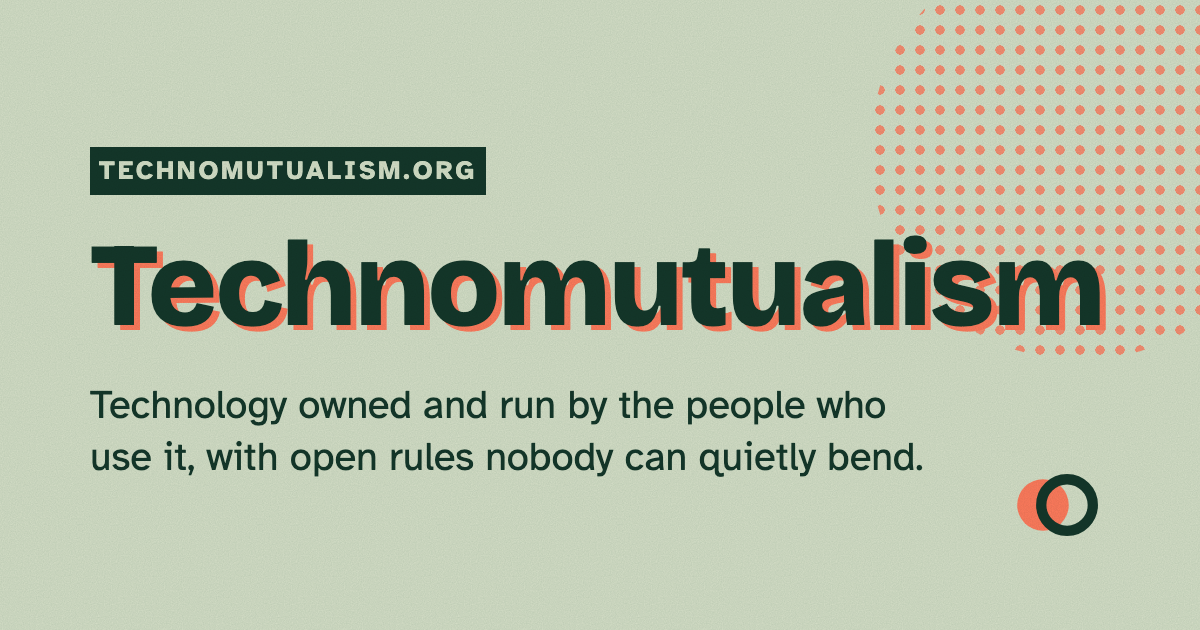
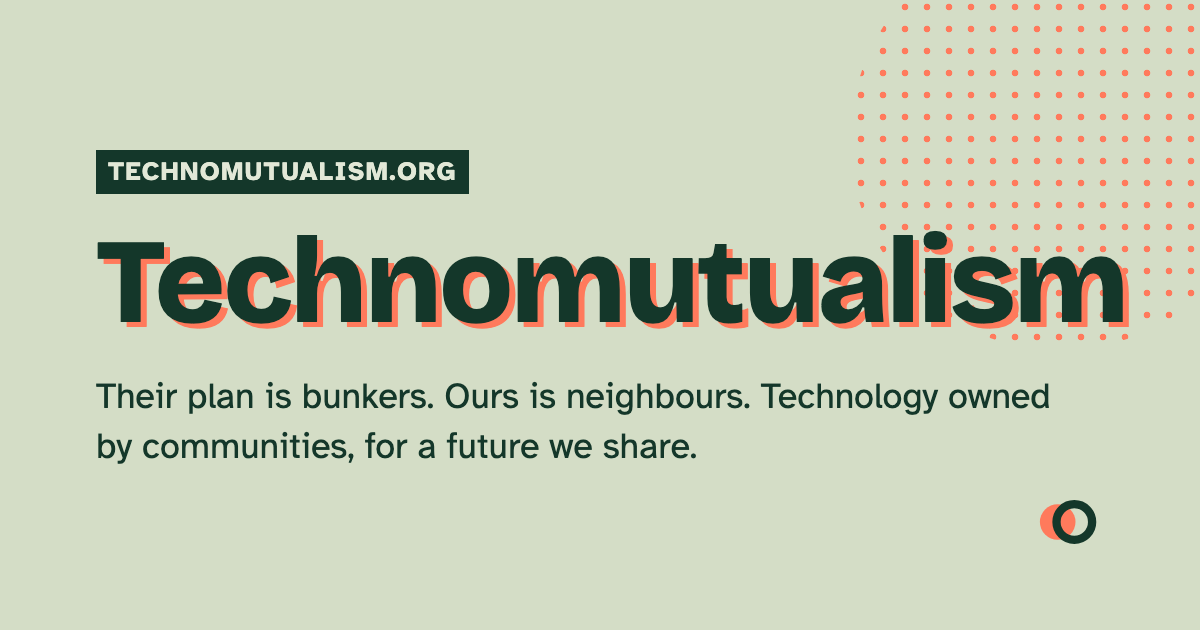
Overhaul: lead with the fortress future (surveillance, AI targeting, exits for the few) and the shared future; End Times Fascism; Power in the open; new questions; new share image (#3)

diff --git a/site/index.html b/site/index.html
@@ -3,11 +3,11 @@
 <head>
 <meta charset="utf-8">
 <meta name="viewport" content="width=device-width, initial-scale=1">
-<title>Technomutualism — technology owned by the people who use it</title>
-<meta name="description" content="Technomutualism is the answer to technofeudalism: technology owned and run by the people who use it, with open rules nobody can quietly bend.">
+<title>Technomutualism — technology for a shared future</title>
+<meta name="description" content="Surveillance, AI and autonomous weapons are being built by a few, for a future with room for only a few. Technomutualism puts technology in the hands of communities, for a future we share.">
 <link rel="canonical" href="https://technomutualism.org/">
 <meta property="og:title" content="Technomutualism">
-<meta property="og:description" content="Technology owned and run by the people who use it, with open rules nobody can quietly bend.">
+<meta property="og:description" content="Their plan is bunkers. Ours is neighbours. Technology owned by communities, for a future we share.">
 <meta property="og:url" content="https://technomutualism.org/">
 <meta property="og:type" content="website">
 <meta property="og:image" content="https://technomutualism.org/og.png">
@@ -32,7 +32,7 @@
       <ul>
         <li><a href="./" aria-current="page">The idea</a></li>
         <li><a href="history">History</a></li>
-        <li><a href="corruption">Ending corruption</a></li>
+        <li><a href="corruption">Power in the open</a></li>
         <li><a href="in-practice">In practice</a></li>
         <li><a href="questions">Questions</a></li>
       </ul>
@@ -47,13 +47,38 @@
   <div class="wrap-wide">
     <p class="kicker">A movement for the digital age</p>
     <h1 class="riso">Techno&shy;mutualism</h1>
-    <p class="lede">The tools that run our lives are owned by a handful of companies, and the rest of us pay rent to use them.
-      There is another way: <strong>technology owned and run by the people who use it</strong>, with open rules that nobody can quietly bend.</p>
-    <p><a class="button" href="#what">What it means</a><a class="button secondary" href="in-practice">See it working</a></p>
+    <p class="lede">The most powerful technology on Earth is being built by a few billionaires and the governments that buy from
+      them: surveillance that never sleeps, artificial intelligence, weapons that pick their own targets. It's being built for a
+      future with room for only a few. There is another way: <strong>technology owned and run by communities, for a future we share</strong>.</p>
+    <p><a class="button" href="#against">What we're up against</a><a class="button secondary" href="in-practice">See it working</a></p>
   </div>
 </section>
 
 <div class="wrap">
+
+<section id="against" class="section">
+  <h2 class="riso">What we're up against</h2>
+  <p>In their book <a href="https://naomiklein.org/end-times-fascism/"><strong>End Times Fascism</strong></a> (2026), Naomi Klein
+    and Astra Taylor describe a new alliance of tech billionaires, religious fundamentalists and ethno-nationalists. Unlike the
+    fascism of the last century, it has given up on a shared future. Its leaders expect collapse, help bring it on, and plan
+    who gets to survive it.</p>
+  <ul class="cards">
+    <li class="card"><h3>Watching everyone</h3><p>Data about where we go, who we know and what we say is gathered by private companies
+      and fused with state power. The ACLU warns that a few firms want to become the
+      <a href="https://www.aclu.org/press-releases/in-new-report-aclu-warns-against-giving-private-companies-centralized-access-to-police-data">"operating system" for police data</a>
+      from thousands of departments.</p></li>
+    <li class="card"><h3>Machines that choose targets</h3><p>Autonomous drones are moving
+      <a href="https://oecd.ai/en/incidents/2026-06-23-4409">from testing into combat</a>, and militaries are rehearsing
+      <a href="https://www.defence.gov.au/news-events/news/2026-06-22/aukus-partners-test-drone-swarming-tactics">swarms that coordinate themselves</a>.
+      Some of the companies that sort our feeds now build the software that sorts targets.</p></li>
+    <li class="card"><h3>Rent on everything</h3><p>A few platforms own the markets, the clouds and the app stores, and everyone else
+      pays to use them. The economist Yanis Varoufakis calls this <a href="history#technofeudalism"><strong>technofeudalism</strong></a>.</p></li>
+    <li class="card"><h3>Exits for the few</h3><p>Bunkers, private islands, fortified borders, even Mars: the people building this
+      technology are planning their way out of the crises it deepens, not a way through them for everyone.</p></li>
+  </ul>
+  <p>They are betting against the future. <strong>Technomutualism bets on it</strong>: the same technology, owned by the
+    communities it serves, used to feed, organise and look after each other, with no single switch at the top.</p>
+</section>
 
 <section id="what" class="section">
   <div class="definition">
@@ -72,47 +97,47 @@
     tired volunteers, and too many of them collapsed under bookkeeping, fraud or burnout. Today a phone in every pocket,
     open-source software and cryptography can do the bookkeeping, keep the records honest and connect communities
     across the world. The things that used to break mutualism can now be handled by tools that its own members own.</p>
-  <p>Technology isn't the enemy here. The same networks now used to extract rent and watch people can carry
-    voluntary co-operation, mutual aid and shared work instead. It depends on who owns them.</p>
+  <p>Technology isn't the enemy here. The same networks now used to watch, sort and target people can carry
+    mutual aid, shared work and self-government instead. It depends on who owns them.</p>
 </section>
 
 <section class="section">
   <h2 class="riso">Two futures for the same technology</h2>
-  <p>The economist Yanis Varoufakis argues that we no longer live under capitalism as we knew it but under
-    <a href="history#technofeudalism"><strong>technofeudalism</strong></a>: a few platform owners act like lords,
-    collecting "cloud rent" from everyone who has to use their land. The same technology can be built the other way round.</p>
+  <p>One future is a fortress: a few people behind walls, everyone else watched, scored and kept in line. The other is a
+    commons: communities that own their tools and look after each other. Both can be built from the same phones, servers and code.</p>
 
   <div class="contrast">
     <div class="feudal">
-      <h3>Technofeudalism</h3>
+      <h3>The fortress future</h3>
       <ul>
-        <li>The platform owns the market; sellers and buyers rent a place in it.</li>
-        <li>Rules are secret and change overnight.</li>
-        <li>Hidden algorithms decide what you see, who sees you and whether you can keep earning.</li>
-        <li>Your data and reputation belong to the platform.</li>
         <li>Every click, place and contact is tracked, profiled and sold, or handed over.</li>
+        <li>Hidden algorithms decide what you see, who sees you and whether you can keep earning.</li>
+        <li>Machines are taught to pick targets, and the people they watch have no say.</li>
+        <li>Dissent can be switched off: accounts closed, money frozen, voices buried.</li>
+        <li>A few platforms own the markets; everyone else rents a place in them.</li>
         <li>Value flows up and out of the community.</li>
-        <li>If you leave, you start again from nothing.</li>
-        <li>Power answers to shareholders, or to the state.</li>
+        <li>The few prepare their exits: bunkers, islands, walls.</li>
+        <li>Power answers to billionaires, and to the governments that buy from them.</li>
       </ul>
     </div>
     <div class="mutual">
-      <h3>Technomutualism</h3>
+      <h3>The shared future</h3>
       <ul>
-        <li>Members own the market and keep what they earn in it.</li>
-        <li>Rules are open code that anyone can read and check.</li>
-        <li>Removing someone follows published rules, not a hidden algorithm.</li>
-        <li>Your keys, your account, your history.</li>
         <li>Private chats are end-to-end encrypted, and your community's server is run by people you can name.</li>
+        <li>Rules are open code that anyone can read and check.</li>
+        <li>People make the decisions about people, in the open.</li>
+        <li>Removing someone follows published rules, not a hidden algorithm.</li>
+        <li>Members own the market and keep what they earn in it.</li>
         <li>Value circulates and stays where it's made.</li>
-        <li>Communities can copy the software and leave together.</li>
-        <li>Power answers to the members.</li>
+        <li>The plan is neighbours, not bunkers: food, energy and mutual aid close to home, for everyone.</li>
+        <li>Power answers to the members, and communities can copy the software and carry on.</li>
       </ul>
     </div>
   </div>
-  <p>When platform power fuses with state power, the harm goes beyond rent. People can be profiled, silenced or cut off
-    from their money at the flip of a switch, and the decision never sees daylight. Some call that <strong>techno-fascism</strong>.
-    Technomutualism is the opposite pole: power spread out instead of stacked up, so there is no single switch to flip.</p>
+  <p>When platform power fuses with state power, people can be profiled, silenced or cut off from their money at the flip
+    of a switch, and the decision never sees daylight. Klein and Taylor answer the fortress with a politics rooted in life on
+    this planet, for everyone. Technomutualism is that answer built into tools: power spread out instead of stacked up, so
+    there is no single switch to flip.</p>
 </section>
 
 <section class="section">

diff --git a/site/history.html b/site/history.html
@@ -4,10 +4,10 @@
 <meta charset="utf-8">
 <meta name="viewport" content="width=device-width, initial-scale=1">
 <title>History — Technomutualism</title>
-<meta name="description" content="Two centuries of mutualism and market socialism, the rise of technofeudalism, and why technology finally fixes what kept mutual projects small.">
+<meta name="description" content="Two centuries of mutualism and market socialism, the slide from technofeudalism to end times fascism, and why technology finally fixes what kept mutual projects small.">
 <link rel="canonical" href="https://technomutualism.org/history">
 <meta property="og:title" content="Where Technomutualism comes from">
-<meta property="og:description" content="Mutualism, market socialism, technofeudalism, and what technology changes.">
+<meta property="og:description" content="Mutualism, market socialism, the slide from rent to control, and what technology changes.">
 <meta property="og:url" content="https://technomutualism.org/history">
 <meta property="og:image" content="https://technomutualism.org/og.png">
 <meta property="og:image:width" content="1200">
@@ -31,7 +31,7 @@
       <ul>
         <li><a href="./">The idea</a></li>
         <li><a href="history" aria-current="page">History</a></li>
-        <li><a href="corruption">Ending corruption</a></li>
+        <li><a href="corruption">Power in the open</a></li>
         <li><a href="in-practice">In practice</a></li>
         <li><a href="questions">Questions</a></li>
       </ul>
@@ -45,8 +45,9 @@
 <section class="hero hero-page">
   <p class="kicker">History</p>
   <h1 class="riso">Where this comes from</h1>
-  <p class="lede">Technomutualism joins two old ideas, mutualism and market socialism, to a new problem: technofeudalism.
-    Here is the short story of each, and why the tools of the 2020s change what's possible.</p>
+  <p class="lede">Technomutualism joins two old ideas, mutualism and market socialism, to the problem of our time: the most
+    powerful technology ever built, held by a few, used first to collect rent and now to watch and control. Here is the short
+    story of each, and why the tools of the 2020s change what's possible.</p>
 </section>
 
 <section id="mutualism" class="section">
@@ -108,7 +109,7 @@
 
 <section id="technofeudalism" class="band">
   <div class="wrap">
-    <h2>Technofeudalism: the problem we're answering</h2>
+    <h2>From rent to control: the problem we're answering</h2>
     <p>In 2020 the French economist <strong>Cédric Durand</strong> described the digital economy as <em>techno-feudal</em>.
       In 2023 <strong>Yanis Varoufakis</strong> went further in his book <em>Technofeudalism: What Killed Capitalism</em>.</p>
     <p>His argument in short: the big platforms, such as Amazon, Apple, Google and Meta, are no longer markets but estates.
@@ -117,8 +118,16 @@
       Varoufakis calls the owners' income <strong>cloud rent</strong>, and the rest of us <strong>cloud serfs</strong>.</p>
     <p>Feudal lords didn't need to make the best product. They owned the land everyone had to use. That's the danger:
       not that technology is bad, but that whoever owns the platform owns everyone on it.</p>
-    <p>There's a darker edge too. Critics warn that when platform owners and governments work hand in hand, the tools built
-      to sell us things can become tools to watch, sort and silence us. Technomutualism answers both by changing who owns the land.</p>
+    <p>Rent was only the first stage. In 2019 <strong>Shoshana Zuboff</strong>'s <em>The Age of Surveillance Capitalism</em>
+      showed how the same companies turn what we do into predictions about what we will do, and sell them. Data gathered to sell
+      us things is now fused with police and military systems, and some of the companies that sort our feeds now build software
+      that sorts targets, for drones that increasingly choose for themselves.</p>
+    <p>In 2026 <strong>Naomi Klein</strong> and <strong>Astra Taylor</strong> gave the next stage a name in
+      <a href="https://naomiklein.org/end-times-fascism/"><em>End Times Fascism</em></a>: an alliance of tech billionaires,
+      religious fundamentalists and ethno-nationalists that has given up on a shared future and plans who survives the collapse
+      it helps bring on. Bunkers for the few, walls for everyone else.</p>
+    <p>Technomutualism answers every stage the same way: change who owns the land. Tools owned by the communities that use
+      them can't be turned against those communities from the top, because there is no top to turn them.</p>
   </div>
 </section>
 
@@ -155,7 +164,7 @@
 </section>
 
 <nav class="next" aria-label="Keep reading">
-  <p>Next: <a href="corruption">How technology can design out corruption →</a></p>
+  <p>Next: <a href="corruption">How to keep power in the open →</a></p>
 </nav>
 
 </div>

diff --git a/site/questions.html b/site/questions.html
@@ -4,10 +4,10 @@
 <meta charset="utf-8">
 <meta name="viewport" content="width=device-width, initial-scale=1">
 <title>Questions — Technomutualism</title>
-<meta name="description" content="Is technomutualism crypto? Is it communism? Is it naive? Straight answers to common questions.">
+<meta name="description" content="What is end times fascism? Can a community app stop it? Is technomutualism crypto, communism or naive? Straight answers.">
 <link rel="canonical" href="https://technomutualism.org/questions">
 <meta property="og:title" content="Technomutualism: common questions">
-<meta property="og:description" content="Is it crypto? Is it communism? Is it naive? Straight answers.">
+<meta property="og:description" content="End times fascism, drones and surveillance, crypto, communism: straight answers.">
 <meta property="og:url" content="https://technomutualism.org/questions">
 <meta property="og:image" content="https://technomutualism.org/og.png">
 <meta property="og:image:width" content="1200">
@@ -31,7 +31,7 @@
       <ul>
         <li><a href="./">The idea</a></li>
         <li><a href="history">History</a></li>
-        <li><a href="corruption">Ending corruption</a></li>
+        <li><a href="corruption">Power in the open</a></li>
         <li><a href="in-practice">In practice</a></li>
         <li><a href="questions" aria-current="page">Questions</a></li>
       </ul>
@@ -50,6 +50,30 @@
 
 <section class="section">
   <details open>
+    <summary>What is end times fascism?</summary>
+    <p>It's the name Naomi Klein and Astra Taylor give, in their 2026 book
+      <a href="https://naomiklein.org/end-times-fascism/"><em>End Times Fascism</em></a>, to a new alliance of tech
+      billionaires, religious fundamentalists and ethno-nationalists. Unlike older fascism, it has no shared future to offer.
+      It expects collapse, helps bring it on, and plans who gets to survive it: bunkers and exits for the few, surveillance
+      and walls for everyone else. Read the book for their full argument; this site takes their warning as its starting point.</p>
+  </details>
+
+  <details>
+    <summary>Can a community app stop drones and surveillance?</summary>
+    <p>No, and we won't pretend it can. What it can do is make communities less dependent on the systems that watch and
+      control them. When a community's money, market, messages and decisions run on tools it owns, there is less to switch off
+      from above, less data to harvest, and more people who already know how to organise together. Fortress politics feeds on
+      isolation and fear. Mutual aid is its opposite, and it works better with good tools.</p>
+  </details>
+
+  <details>
+    <summary>Isn't this political?</summary>
+    <p>Yes. It takes a side: with communities, against power that is concentrated and hidden, whoever holds it. It isn't a
+      party, and it doesn't ask you to join one. People of many views can agree that the tools we all depend on shouldn't be
+      in the hands of a few.</p>
+  </details>
+
+  <details>
     <summary>Is this crypto?</summary>
     <p>No. There is no coin, no token, no mining and nothing to invest in or speculate on. Mutual credit is closer to a
       shared tab between neighbours than to Bitcoin: credits are created when members trade with each other, and all
@@ -66,9 +90,9 @@
 
   <details>
     <summary>Is it against big tech, or against technology?</summary>
-    <p>Neither. Technomutualism loves technology; the "techno" is in the name. It's against one thing: a few owners
-      collecting rent from everyone who has to use their platforms. The same phones, apps and networks can be owned by the
-      people who use them instead.</p>
+    <p>Neither. Technomutualism loves technology; the "techno" is in the name. It's against one thing: the most powerful
+      tools ever built held by a few, and used to collect rent, to watch people and to control them. The same phones, apps
+      and networks can be owned by the communities that use them instead.</p>
   </details>
 
   <details>

diff --git a/site/corruption.html b/site/corruption.html
@@ -3,11 +3,11 @@
 <head>
 <meta charset="utf-8">
 <meta name="viewport" content="width=device-width, initial-scale=1">
-<title>Ending corruption — Technomutualism</title>
+<title>Power in the open — Technomutualism</title>
 <meta name="description" content="Corruption needs hidden power over shared things. Signed records, open rules, shared keys and the freedom to leave take the hiding places away. What each one needs, and where blockchain fits.">
 <link rel="canonical" href="https://technomutualism.org/corruption">
 <meta property="og:title" content="Designing out corruption">
-<meta property="og:description" content="Twelve ways technology can take away corruption's hiding places, and what each one needs.">
+<meta property="og:description" content="Twelve ways technology can take away the hiding places of corruption and control, and what each one needs.">
 <meta property="og:url" content="https://technomutualism.org/corruption">
 <meta property="og:image" content="https://technomutualism.org/og.png">
 <meta property="og:image:width" content="1200">
@@ -31,7 +31,7 @@
       <ul>
         <li><a href="./">The idea</a></li>
         <li><a href="history">History</a></li>
-        <li><a href="corruption" aria-current="page">Ending corruption</a></li>
+        <li><a href="corruption" aria-current="page">Power in the open</a></li>
         <li><a href="in-practice">In practice</a></li>
         <li><a href="questions">Questions</a></li>
       </ul>
@@ -43,10 +43,11 @@
 <div class="wrap">
 
 <section class="hero hero-page">
-  <p class="kicker">Ending corruption</p>
+  <p class="kicker">Power in the open</p>
   <h1 class="riso">Take away the hiding places</h1>
-  <p class="lede">Corruption needs three things: power over something shared, a way to use it secretly, and nobody able to
-    stop you. Technology can't make people good. It can make secret abuse of shared things very hard to get away with.</p>
+  <p class="lede">Corruption, surveillance and control all need the same thing: power over something shared that nobody else
+    can see or stop. The fortress future is built on that kind of power. Technology can't make people good, but it can make
+    secret power over shared things very hard to get away with.</p>
 </section>
 
 <section class="section">

diff --git a/site/in-practice.html b/site/in-practice.html
@@ -31,7 +31,7 @@
       <ul>
         <li><a href="./">The idea</a></li>
         <li><a href="history">History</a></li>
-        <li><a href="corruption">Ending corruption</a></li>
+        <li><a href="corruption">Power in the open</a></li>
         <li><a href="in-practice" aria-current="page">In practice</a></li>
         <li><a href="questions">Questions</a></li>
       </ul>
@@ -45,8 +45,9 @@
 <section class="hero hero-page">
   <p class="kicker">In practice</p>
   <h1 class="riso">It's already happening</h1>
-  <p class="lede">Technomutualism isn't a dream waiting for permission. Pieces of it are running today, from Swiss
-    businesses to Kenyan villages to a pair of Australian towns. Here's where, and what it could grow into.</p>
+  <p class="lede">While a few build fortresses, communities are already building the alternative, without waiting for
+    permission. Pieces of it run today, from Swiss businesses to Kenyan villages to a pair of Australian towns. Here's where,
+    and what it could grow into.</p>
 </section>
 
 <section id="beanpool" class="section">
@@ -116,6 +117,9 @@
     <p>Care for children, the sick and the elderly makes up most of the world's unpaid work. Recording it as real
       contribution, the way time banks do, makes it count.</p>
 
+    <h3>Organising without being watched</h3>
+    <p>Group chats that are end-to-end encrypted, on a server the community runs, so organising a food co-op, a union or a
+      protest doesn't depend on a platform that can switch you off or be made to hand your messages over.</p>
     <h3>Honest institutions</h3>
     <p>Clubs, co-ops, unions and town councils could run their money and votes on open, signed records. Not because people
       are bad, but because nobody should have to just take someone's word for it.</p>

diff --git a/site/404.html b/site/404.html
@@ -23,7 +23,7 @@
       <ul>
         <li><a href="/">The idea</a></li>
         <li><a href="/history">History</a></li>
-        <li><a href="/corruption">Ending corruption</a></li>
+        <li><a href="/corruption">Power in the open</a></li>
         <li><a href="/in-practice">In practice</a></li>
         <li><a href="/questions">Questions</a></li>
       </ul>
